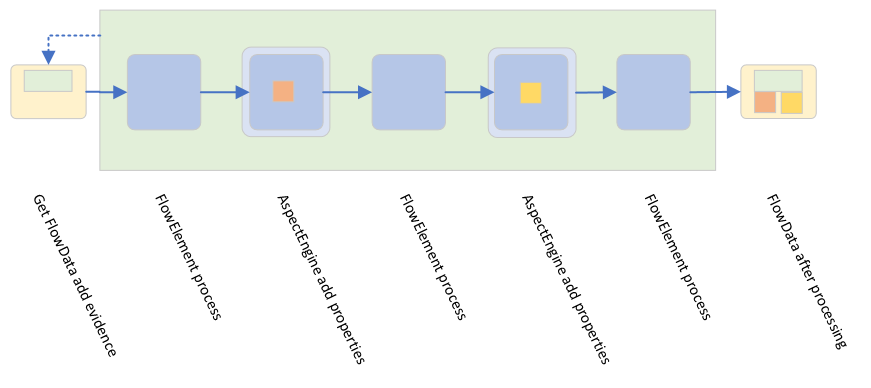
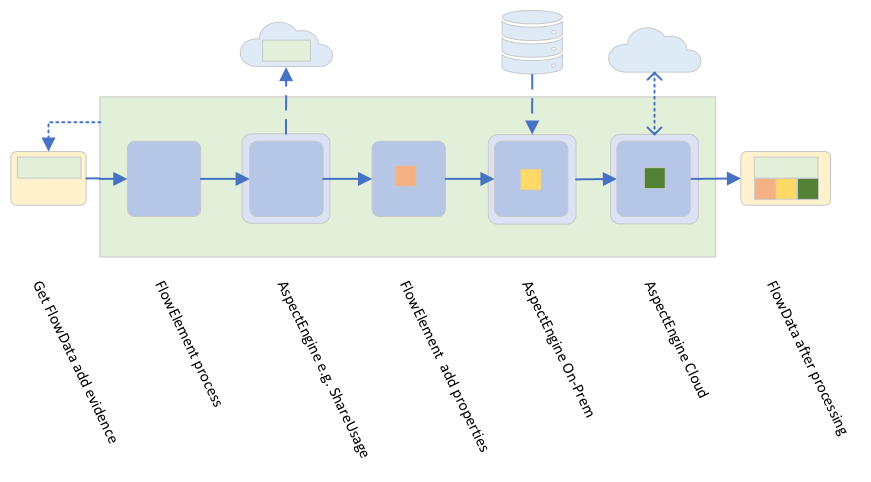
Updating PipelineFlog illustration, add to README

diff --git a/pipeline-specification/README.md b/pipeline-specification/README.md
@@ -78,3 +78,4 @@ the consuming application.
 Engines may be configured with caches and offer the ability to carry out lazy 
 evaluation of property values. Engine instances may be shared between Pipelines.
 
+![Illustration of Pipeline Flow](images/PipelineFlow.png)
